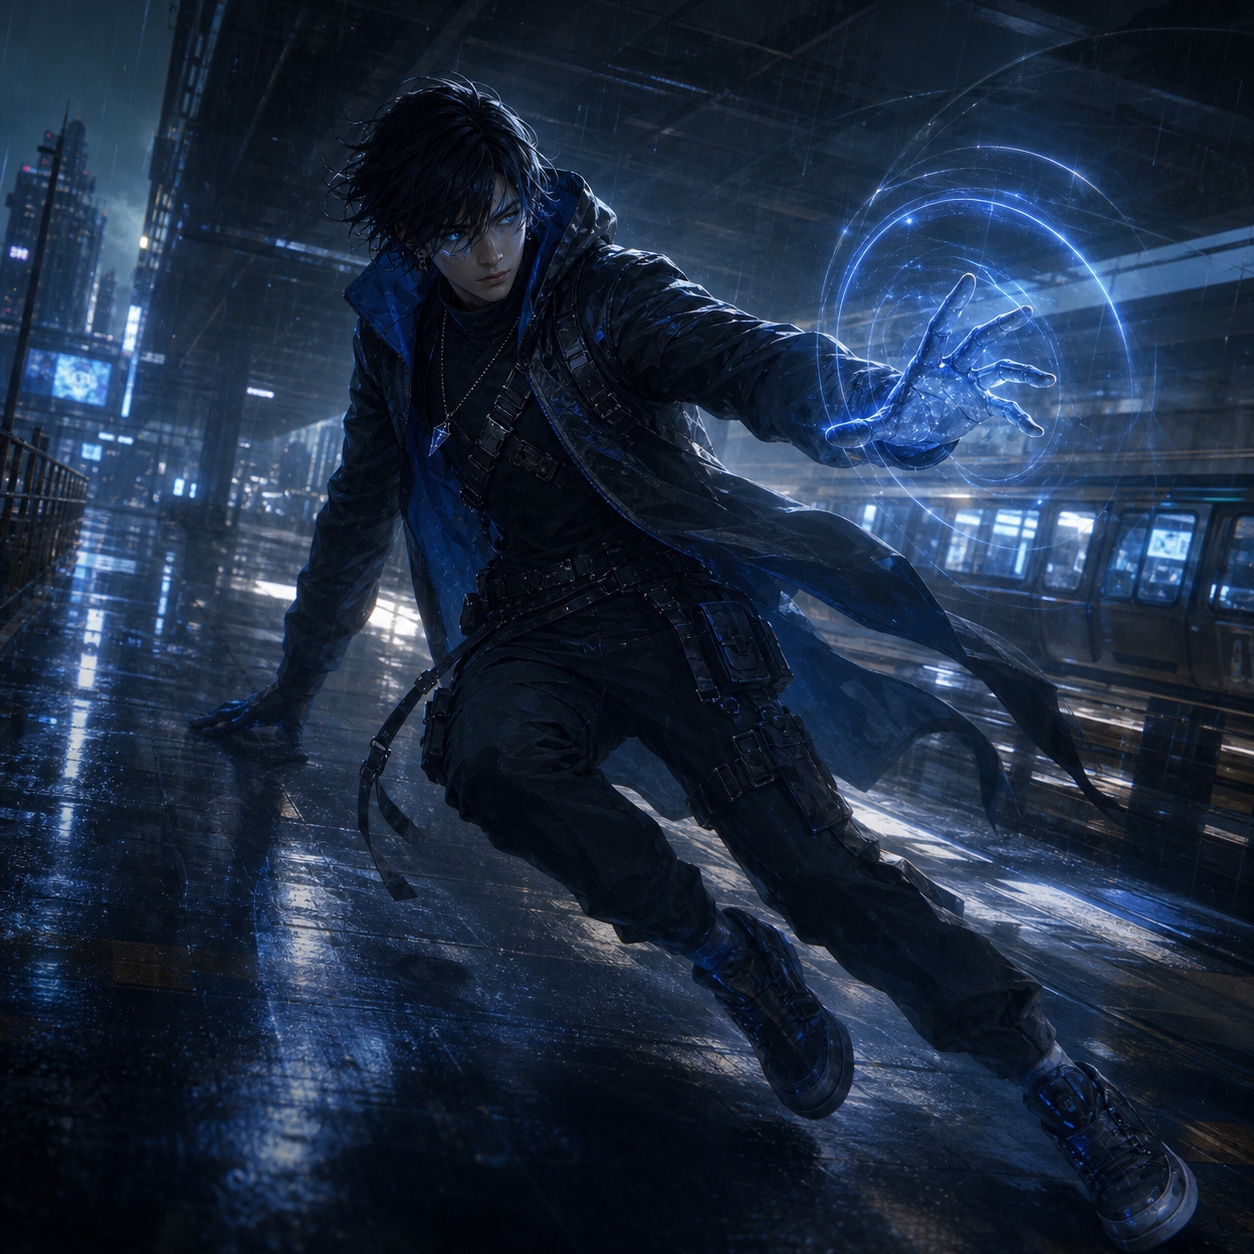
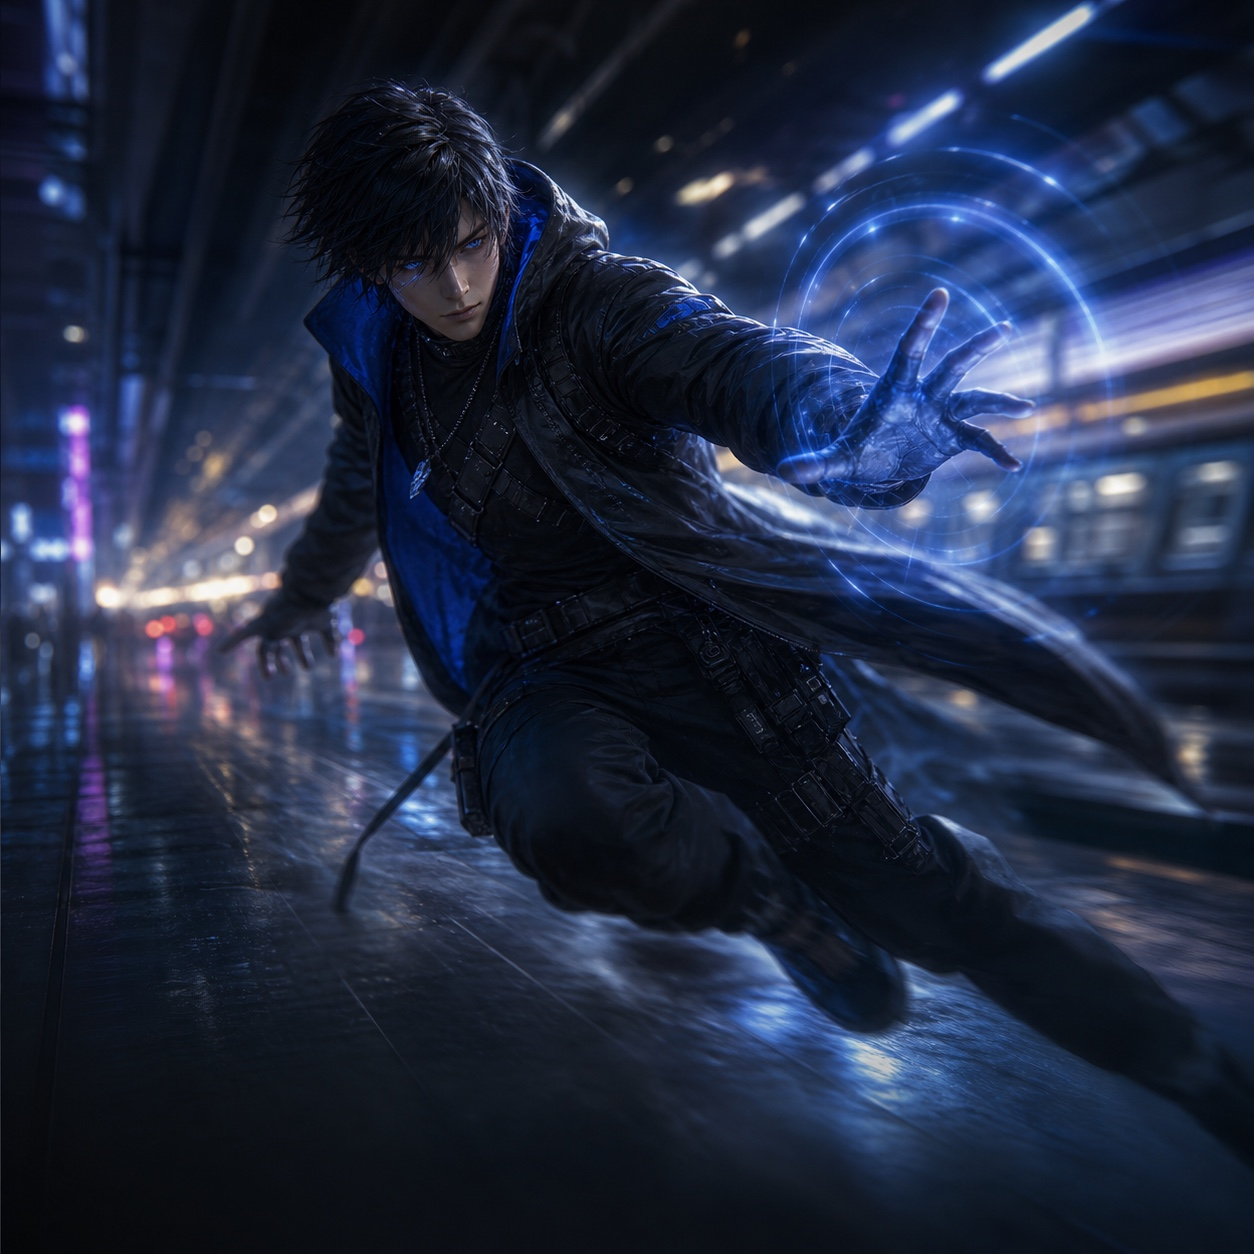
Refresh roster character art

diff --git a/src/components/fragment-landing.tsx b/src/components/fragment-landing.tsx
@@ -162,7 +162,7 @@ const heroes = [
   {
     name: "Red Vector",
     path: "Fire / Burst",
-    src: "/art/hero-red-female.webp",
+    src: "/art/hero-red-vector-square.jpg",
     accent: "from-red-500/35",
   },
   {
@@ -367,7 +367,7 @@ function HeroRosterCard({ hero }: { hero: (typeof heroes)[number] }) {
         <div className="absolute inset-x-0 bottom-0 h-28 bg-gradient-to-t from-void to-transparent" />
       </div>
       <div className="p-4">
-        <h3 className="font-title text-sm uppercase tracking-[0.18em] text-white">
+        <h3 className="promo-card-title text-sm uppercase tracking-[0.18em] text-white">
           {hero.name}
         </h3>
         <p className="mt-2 text-xs uppercase tracking-[0.16em] text-slate-400">
